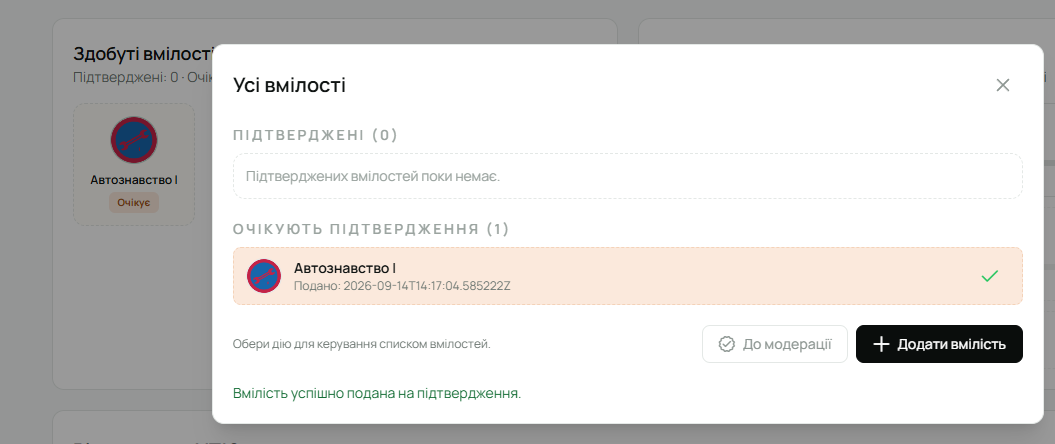
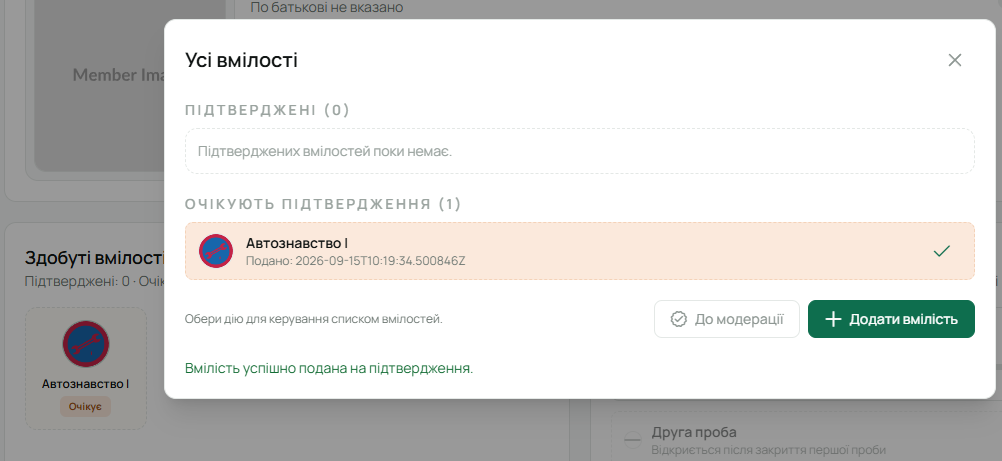
Update user docs: verification screenshots, calendar, mentor and youth roles

diff --git a/docs/user/roles/mentor.md b/docs/user/roles/mentor.md
@@ -41,10 +41,16 @@ sidebar:
   конкретні люди. Є повтори (щотижневі сходини) і відповіді «буду / не буду».
 - **Задачі** — дошка задач гуртка: призначити юнакові, поставити термін, відмітити зроблене.
 
+![Calendar](../images/calendar.png)
+
+![Calendar-1](../images/calendar-1.png)
+
 ## Відзначення й перестороги
 
 У картці юнака: відзначення (з датою й підставою) і перестороги (рівень, причина). Обидва
 приходять юнакові сповіщенням.
+
+// Як це зробити? (пересторога)
 
 ## Верифікація профілів
 
@@ -52,7 +58,12 @@ sidebar:
 підтверди; якщо потім зміниться щось суттєве, позначка стане «застаріла» і попросить переглянути
 ще раз. Дрібні правки позначку не збивають.
 
+![alt text](../images/verify.png)
+
+![alt text](../images/verify-1.png)
+
+// Як це зробити?
+
 ## Чого впорядник не може
 
-Змінювати провід куреня, закріплення впорядників, налаштування куреня, імпортувати склад у
-курінь, експортувати PDF-звіт. Це — [Звʼязковий](/user/roles/leader/).
+Змінювати провід куреня, закріплення впорядників, налаштування куреня, імпортувати склад у курінь, експортувати PDF-звіт. Це — [Звʼязковий](/user/roles/leader/).

diff --git a/docs/user/roles/youth.md b/docs/user/roles/youth.md
@@ -32,6 +32,8 @@ sidebar:
 
 ![Calendar](../images/calendar.png)
 
+![Calendar-1](../images/calendar-1.png)
+
 ## Сповіщення
 
 Дзвіночок угорі: коли впорядник підписав точку, розглянув вмілість, додав відзначення чи
